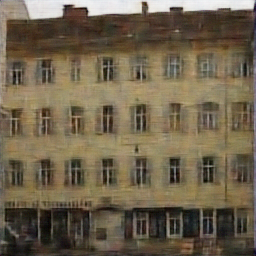
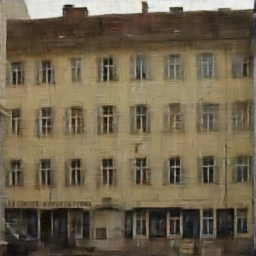
train 600 epochs

diff --git a/vai_unet/2_vitis_ai_unet/5_vai_container/protype4/framework/custom/models.py b/vai_unet/2_vitis_ai_unet/5_vai_container/protype4/framework/custom/models.py
@@ -12,7 +12,7 @@ class UnetSkipConnectionBlock(nn.Module):
             input_nc = outer_nc
 
         downconv = nn.Conv2d(input_nc, inner_nc, kernel_size=4, stride=2, padding=1, bias=False)
-        downrelu = nn.LeakyReLU(0.5, inplace=True)
+        downrelu = nn.LeakyReLU(0.1, inplace=True)
         #downrelu = nn.ReLU(inplace=True)
         uprelu = nn.ReLU(inplace=True)
         upconv = nn.ConvTranspose2d(inner_nc * 2, outer_nc, kernel_size=4, stride=2, padding=1, bias=False)

diff --git a/release_deployable/protype5_1/readme.md b/release_deployable/protype5_1/readme.md
@@ -1,4 +1,4 @@
-# Acc protype v3
+# Acc protype v5
 ## What this will do
 This is an acc protype which will denoise Cifar-10 with random noise using Alveo U50.
 We can use this protype to develope API, when the final model ready I will replace the acc while keeping same interface.
